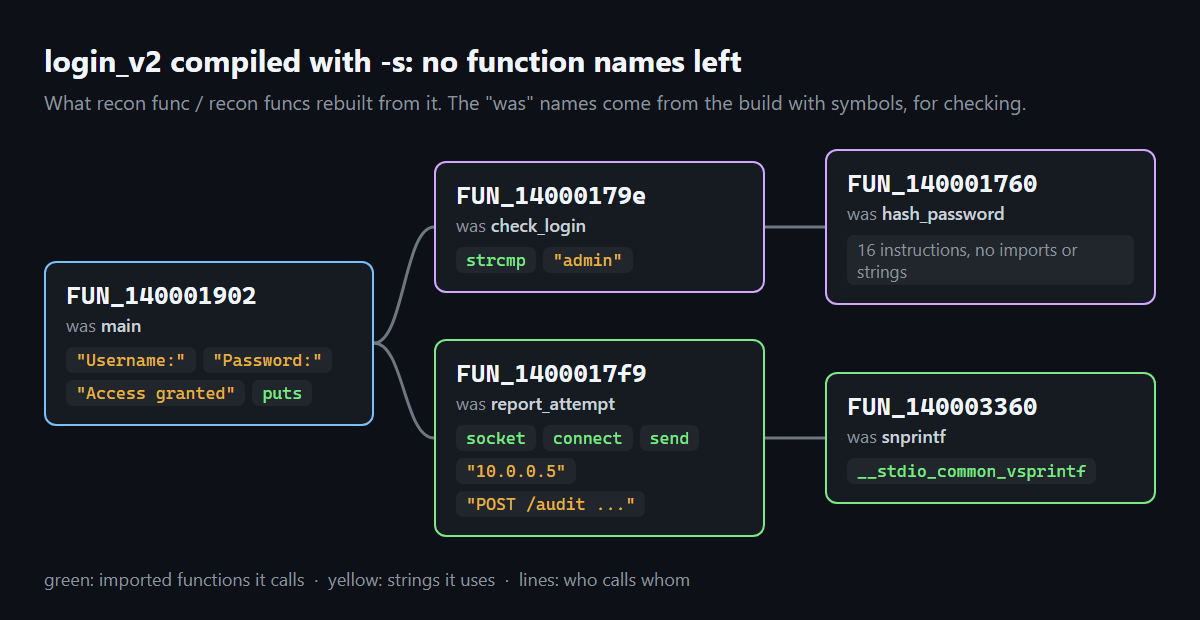
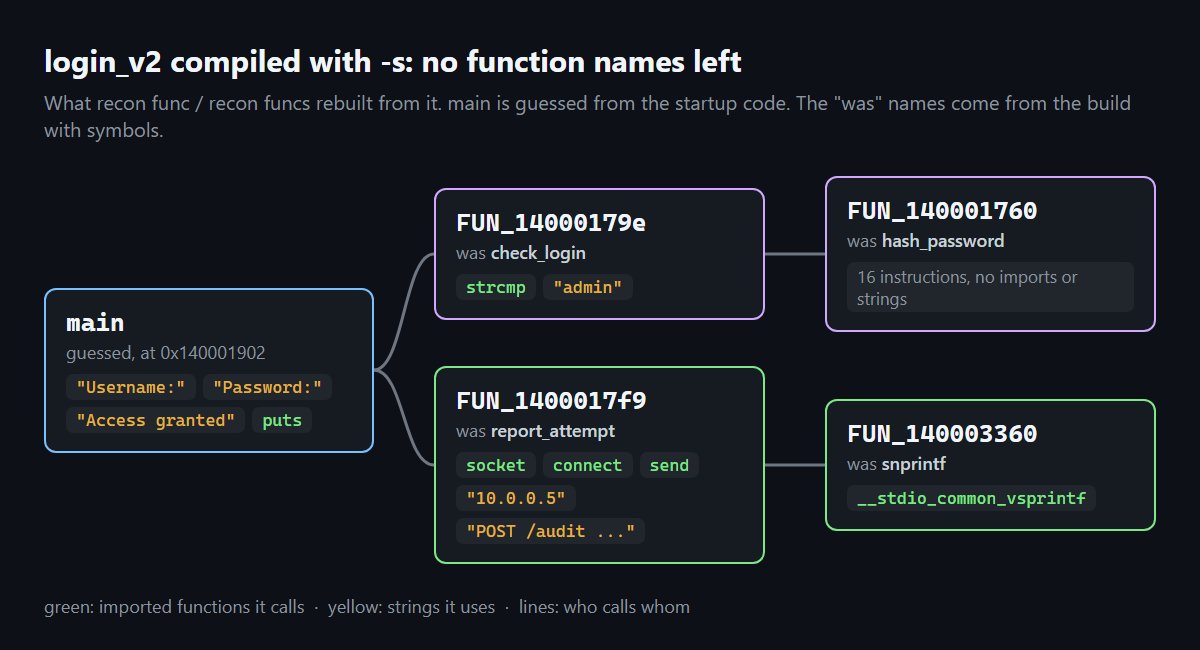
disasm: guess main and WinMain in msvc programs too (after __p___argc, and the image base as hInstance)

diff --git a/recon/disasm.py b/recon/disasm.py
@@ -111,19 +111,20 @@ def find_functions(binary: Binary) -> dict[int, Function]:
         starts |= new
     if binary.entry is not None and not any(f.name in MAIN_NAMES for f in functions.values()):
         guess = _guess_main(binary, functions, md, thunks)
-        if guess in functions:
-            functions[guess].name = "main"  # named stays False: it's a guess
+        if guess is not None and guess[0] in functions:
+            functions[guess[0]].name = guess[1]  # named stays False: it's a guess
     return functions
 
 
 MAIN_NAMES = {"main", "wmain", "WinMain", "wWinMain"}
 
 
-def _guess_main(binary: Binary, functions: dict[int, Function], md, thunks: dict[int, str]) -> int | None:
-    """Where main is when the binary has no symbols, from what the compiler's startup code does.
+def _guess_main(binary: Binary, functions: dict[int, Function], md, thunks: dict[int, str]) -> tuple[int, str] | None:
+    """Where main (or WinMain) is when the binary has no symbols, from what the startup code does.
 
     On Linux, _start puts main's address in rdi and calls __libc_start_main through the GOT. On
-    MinGW, the startup function calls main(argc, argv, envp) with all three read from globals.
+    MinGW, the startup function calls main(argc, argv, envp) with all three read from globals. MSVC
+    calls main right after __p___argc(), and WinMain with the image base in rcx (hInstance).
     """
     def instructions(f: Function):
         return md.disasm(binary.read(f.address, f.end - f.address), f.address)
@@ -141,7 +142,7 @@ def _guess_main(binary: Binary, functions: dict[int, Function], md, thunks: dict
                 elif ops[1].type == x86.X86_OP_IMM:
                     rdi = ops[1].imm
             elif ins.mnemonic == "call" and ops and ops[0].type == x86.X86_OP_MEM:
-                return rdi
+                return (rdi, "main") if rdi is not None else None
         return None
 
     # the startup function is close to the entry point: look two calls deep
@@ -154,9 +155,34 @@ def _guess_main(binary: Binary, functions: dict[int, Function], md, thunks: dict
             seen.add(a)
             found = _call_with_three_globals(instructions(functions[a]), functions, thunks)
             if found is not None:
+                return found, "main"
+            found = _msvc_main(binary, instructions(functions[a]), functions, thunks)
+            if found is not None:
                 return found
             nxt.extend(functions[a].calls)
         frontier = nxt
+    return None
+
+
+def _msvc_main(binary: Binary, instructions, functions: dict[int, Function], thunks: dict[int, str]) -> tuple[int, str] | None:
+    slots = binary.import_slots
+    after = None  # what the next call to a function of the program would be
+    for ins in instructions:
+        ops = ins.operands
+        if ins.mnemonic == "lea" and len(ops) == 2 and ops[0].type == x86.X86_OP_REG and ops[1].type == x86.X86_OP_MEM                 and ops[1].mem.base == x86.X86_REG_RIP and ins.reg_name(ops[0].reg) == "rcx"                 and ins.address + ins.size + ops[1].mem.disp == binary.image_base:
+            after = "WinMain"
+        elif ins.mnemonic == "call" and ops:
+            op = ops[0]
+            if op.type == x86.X86_OP_IMM and op.imm in thunks:
+                callee = thunks[op.imm]
+            elif op.type == x86.X86_OP_MEM and op.mem.base == x86.X86_REG_RIP:
+                slot = slots.get(ins.address + ins.size + op.mem.disp)
+                callee = slot.name if slot else None
+            elif op.type == x86.X86_OP_IMM and op.imm in functions and after:
+                return op.imm, after
+            else:
+                callee = None
+            after = "main" if callee == "__p___argc" else None
     return None
 
 
@@ -261,7 +287,8 @@ def imports_from(functions: dict[int, Function], name: str = "main") -> set[str]
     """Imports called by a function or anything it calls, directly or not. None if it isn't found."""
     import networkx as nx
 
-    start = next((f for f in functions.values() if f.name == name), None)
+    names = MAIN_NAMES if name == "main" else {name}
+    start = next((f for f in functions.values() if f.name in names), None)
     if start is None:
         return None
     reached = {start.address} | nx.descendants(call_graph(functions), start.address)

diff --git a/tests/test_xrefs.py b/tests/test_xrefs.py
@@ -1,3 +1,7 @@
+from pathlib import Path
+
+import pytest
+
 from recon import disasm
 from recon.cli import main
 from recon.loader import load
@@ -34,3 +38,14 @@ def test_xrefs_command(samples, capsys):
     out = capsys.readouterr().out
     assert out.startswith("string '10.0.0.5' used by (1)")
     assert main(["xrefs", str(samples["v2"]), "nothing like this"]) == 1
+
+
+WINDOWS = Path("C:/Windows/System32")
+
+
+@pytest.mark.parametrize("exe, name", [("whoami.exe", "main"), ("notepad.exe", "WinMain")])
+def test_main_is_guessed_in_msvc_programs(exe, name):
+    if not (WINDOWS / exe).exists():
+        pytest.skip("needs Windows' own programs")
+    functions = disasm.find_functions(load(WINDOWS / exe))
+    assert [f for f in functions.values() if f.name == name and not f.named]

diff --git a/README.md b/README.md
@@ -4,7 +4,7 @@ Point it at an unknown binary and it tries to work out what the program does, fr
 
 ![Call graph rebuilt from a binary with no function names](docs/call-graph.png)
 
-That's a small login program compiled with `-s`, so every function name is gone. RECON still finds the functions, who calls whom, and which system APIs and strings each one uses. I only know the "was" names because I compared with the build that has symbols.
+That's a small login program compiled with `-s`, so every function name is gone. RECON still finds the functions, who calls whom, and which system APIs and strings each one uses. `main` is a guess from the startup code (more on that below), and I only know the "was" names because I compared with the build that has symbols.
 
 ## Why
 
@@ -34,7 +34,7 @@ Add `--json` before the command (`recon --json funcs program.exe`) to get JSON i
 
 `recon funcs` starts from what the file already gives away (entry point, exports, symbols and the x64 exception table, which lists where each function starts and ends) and then follows every direct `call` until no new functions show up. For each one it keeps the functions it calls, the imported APIs it calls and the data it points at, so a string like `"10.0.0.5"` gets tied to the code that uses it.
 
-So even with no names, `FUN_1400017f9` is clearly the one talking to the server, and it's called by `main`. That one name is a guess from the compiler's startup code: MinGW calls `main(argc, argv, envp)` with all three read from globals, and on Linux `_start` hands `main`'s address to `__libc_start_main`. It checks out, since that function is also the one printing `"Username:"`.
+So even with no names, `FUN_1400017f9` is clearly the one talking to the server, and it's called by `main`. That one name is a guess from the compiler's startup code: MinGW calls `main(argc, argv, envp)` with all three read from globals, MSVC calls it right after `__p___argc()` (and `WinMain` with the image base as `hInstance`), and on Linux `_start` hands `main`'s address to `__libc_start_main`. On Windows' notepad.exe it lands on a function with `GetMessageW`, `TranslateMessage` and `DispatchMessageW`, which is the message loop every `WinMain` has. It checks out, since that function is also the one printing `"Username:"`.
 
 To go the other way, from something you spotted to the code using it:
 
@@ -102,7 +102,7 @@ To pair old and new functions it tries the name first, then identical code (same
 
 ![recon info on login v2](docs/info.png)
 
-"Can probably" groups the imports: `socket`/`connect`/`send` is network, `fopen`/`WriteFile` is writing files, `CreateProcess` is starting other programs, and so on. Importing something doesn't mean the program calls it, so each line shows the imports behind it. Every MinGW build imports `LoadLibraryA` and `GetProcAddress` for its startup code, so "dynamic loading" shows up even in the samples. `info` follows the call graph from `main` and marks anything it never reaches. That works on stripped builds too when `main` can be guessed (MinGW and Linux so far, not MSVC yet).
+"Can probably" groups the imports: `socket`/`connect`/`send` is network, `fopen`/`WriteFile` is writing files, `CreateProcess` is starting other programs, and so on. Importing something doesn't mean the program calls it, so each line shows the imports behind it. Every MinGW build imports `LoadLibraryA` and `GetProcAddress` for its startup code, so "dynamic loading" shows up even in the samples. `info` follows the call graph from `main` and marks anything it never reaches. That works on stripped builds too, since `main` gets guessed.
 
 `info` also warns when a program looks packed (UPX and similar section names, code with entropy above 7.2, code that is also writable). Packed programs keep the real code compressed until they run, so an empty result there means little.
 
